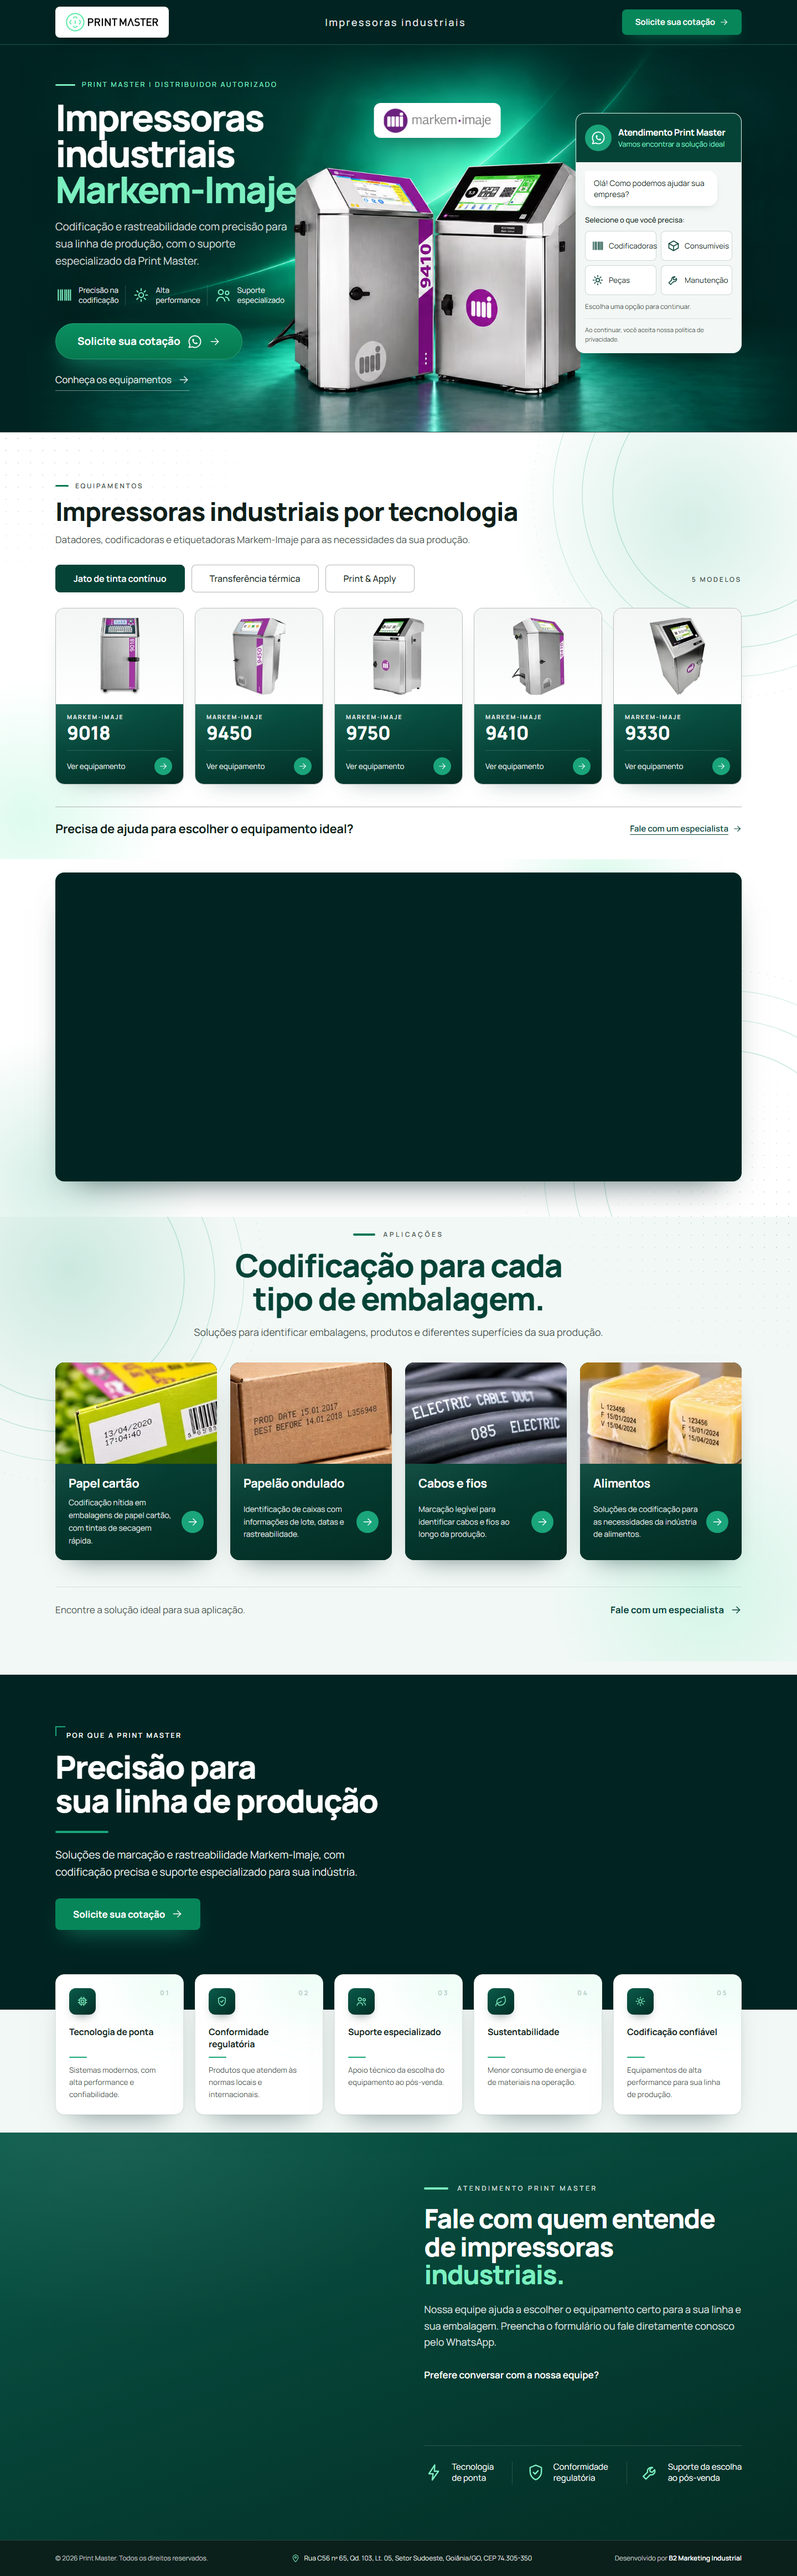
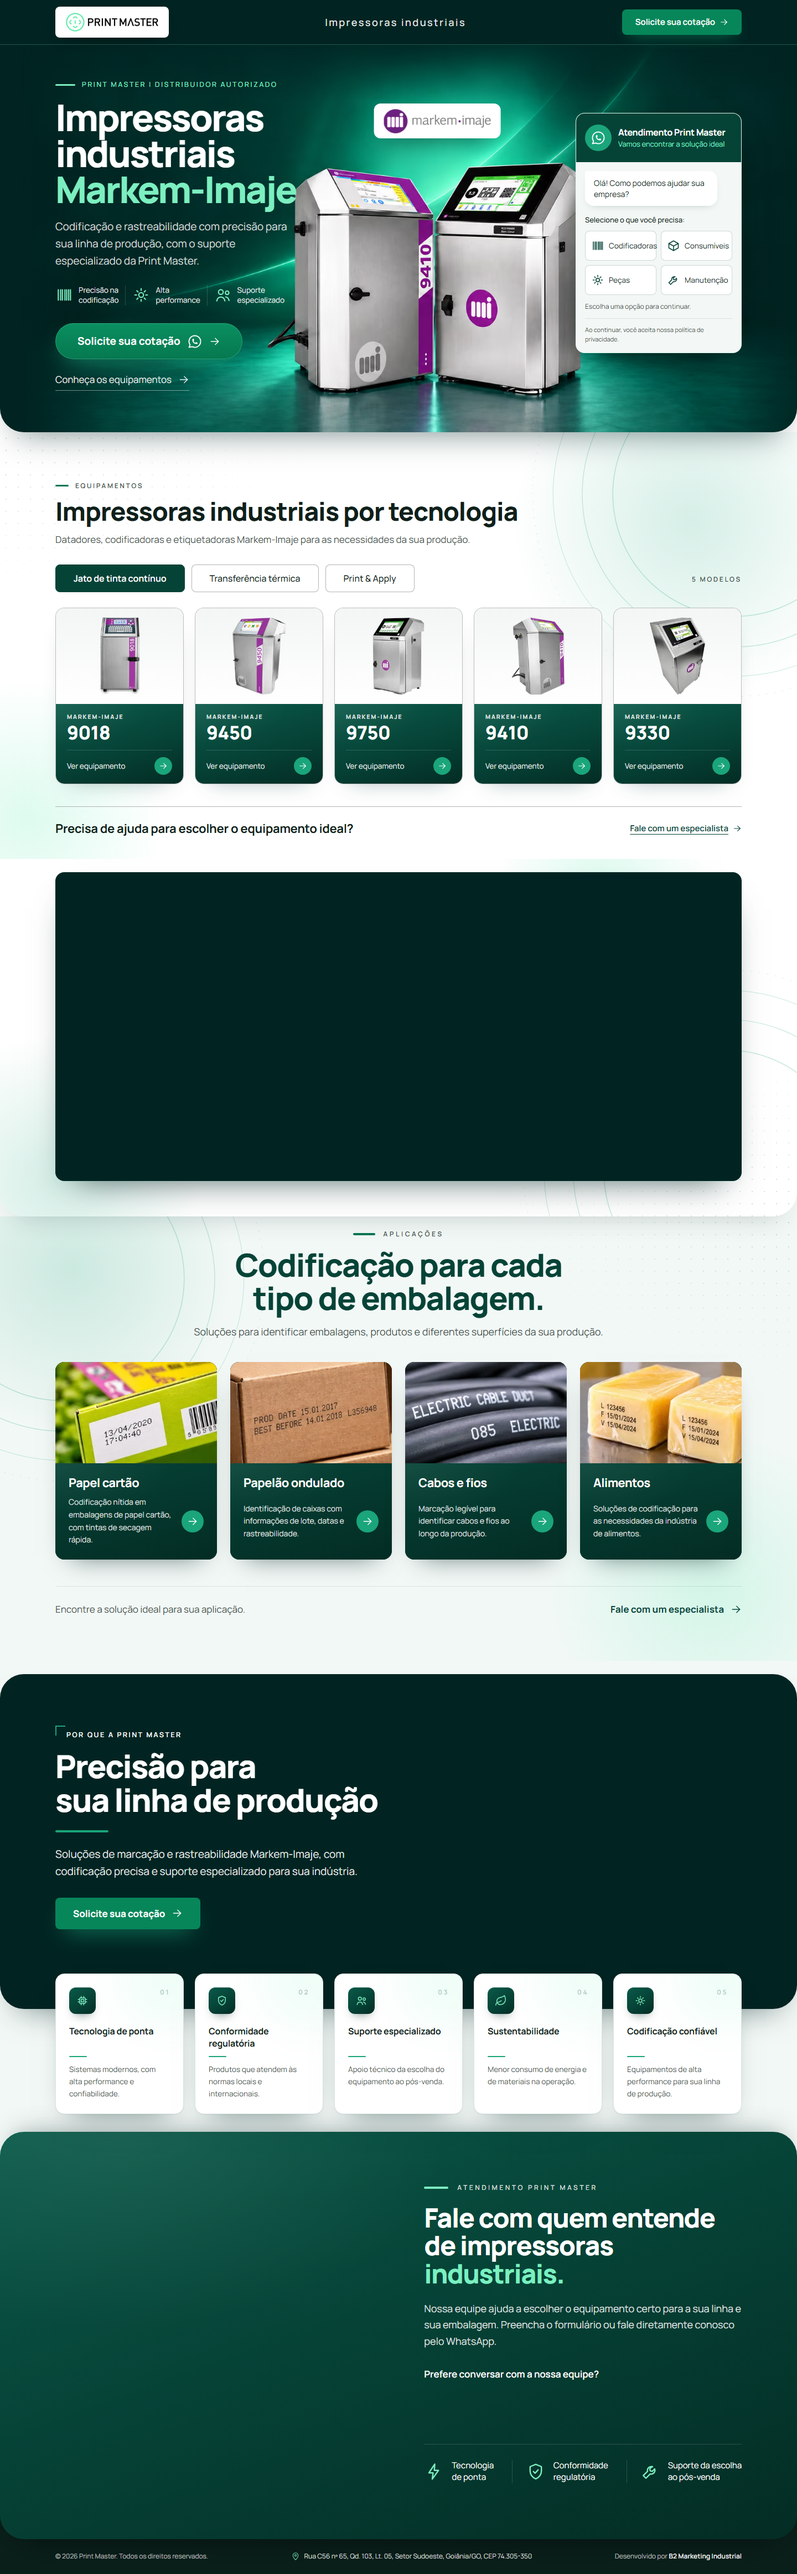
style: divisões arredondadas entre as seções
- hero, banner do "Como funciona", bloco escuro dos diferenciais e
  cotação terminam com cantos arredondados (24–44px) e sombra suave, no
  lugar da linha reta;
- a seção vizinha se estende por baixo dos cantos com borda transparente
  e margem negativa, sem mudar o espaçamento;
- linha inferior do hero removida.

diff --git a/src/styles/global.css b/src/styles/global.css
@@ -151,3 +151,59 @@
     display: none;
   }
 }
+
+/* ---------------------------------------------------------------------------
+   Divisões arredondadas entre seções — Print Master, pedido de 27/10/2026
+   (docs/BRIEFING.md). Onde o fundo muda, o bloco de cima termina com os cantos
+   arredondados e uma sombra suave sobre o de baixo, no lugar da linha reta.
+
+   Quando o fundo atrás dos cantos não é o da página, a seção vizinha se estende
+   por baixo com uma borda transparente do tamanho do raio (o fundo pinta por baixo
+   da borda) e uma margem negativa igual: o espaçamento visível não muda.
+   --------------------------------------------------------------------------- */
+:root {
+  --round: clamp(24px, 3vw, 44px);
+}
+
+/* Hero (verde) sobre os equipamentos (branco, o fundo da página). */
+[data-hero] {
+  z-index: 1;
+  border-radius: 0 0 var(--round) var(--round);
+  box-shadow: 0 30px 60px -30px rgb(1 36 34 / 0.55);
+}
+
+/* "Como funciona" (branco) sobre as aplicações (cinza). */
+#processo {
+  z-index: 1;
+  border-radius: 0 0 var(--round) var(--round);
+  box-shadow: 0 26px 50px -30px rgb(1 36 34 / 0.24);
+}
+
+#aplicacoes {
+  margin-top: calc(-1 * var(--round));
+  border-top: var(--round) solid transparent;
+}
+
+/* Bloco escuro de "Por que a Print Master": um cartão em largura total. */
+.why-hero {
+  border-radius: var(--round);
+  box-shadow: 0 30px 60px -34px rgb(1 36 34 / 0.6);
+}
+
+/* Cotação (verde) sobre o cinza dos diferenciais e sobre o rodapé. */
+#diferenciais {
+  margin-bottom: calc(-1 * var(--round));
+  border-bottom: var(--round) solid transparent;
+}
+
+#cotacao {
+  border-radius: var(--round);
+  box-shadow:
+    0 -24px 50px -30px rgb(1 36 34 / 0.45),
+    0 30px 60px -30px rgb(0 0 0 / 0.5);
+}
+
+body > footer {
+  margin-top: calc(-1 * var(--round));
+  border-top: var(--round) solid transparent;
+}

diff --git a/docs/BRIEFING.md b/docs/BRIEFING.md
@@ -135,6 +135,7 @@ Derivada em: 26/10/2026 · comando aplicado: `npm run compose -- vitrine process
 | `src/components/Footer.astro`                                                                                             | fundo #0b201b (mais escuro que o navy-premium), alfinete em menta e textos mais claros                                                                                                                                                                                                                                                                                                                                                                                 | mockup da cotação (27/10/2026); uma linha, três itens, como no padrão                                                                                                                                                                                                                                                                                                                                                                                                                                  |
 | `src/components/Section.astro`                                                                                            | os fundos claros (vitrine, processo, aplicações) ganham textura atrás do conteúdo: manchas de luz verde em degradê, anéis menta finos e malha de pontos que esmaece, com posições diferentes por seção                                                                                                                                                                                                                                                                 | pedido do usuário (27/10/2026): fundos muito vazios                                                                                                                                                                                                                                                                                                                                                                                                                                                    |
 | `src/components/sections/ProcessSteps.astro`, `src/data/sections/processo.ts`, `src/assets/processo/`, `lp.manifest.json` | o painel "Como funciona" (4 etapas) deu lugar ao banner enviado pelo usuário: imagem inteira no desktop, recorte do lado do texto no celular, banner inteiro clicável (`processo-cta`), H2 só para leitores de tela e `alt` com o texto da arte; contrato da seção sem etapas                                                                                                                                                                                          | pedido do usuário (27/10/2026); as etapas seguem na ficha. A arte tem um defeito no texto ("espec:ializado") a corrigir na origem                                                                                                                                                                                                                                                                                                                                                                      |
+| `src/styles/global.css`, `src/components/Hero.astro`                                                                      | divisões arredondadas entre seções (raio `--round`, 24–44px) com sombra suave: hero, "Como funciona" (banner), bloco escuro dos diferenciais e cotação; a vizinha se estende por baixo dos cantos com borda transparente e margem negativa, sem mudar o espaçamento; linha inferior do hero removida                                                                                                                                                                   | pedido do usuário (27/10/2026)                                                                                                                                                                                                                                                                                                                                                                                                                                                                         |
 | `scripts/check-lp.mjs`                                                                                                    | assinaturas A8 do Header e do Hero repinadas, com comentário datado                                                                                                                                                                                                                                                                                                                                                                                                    | o redesenho do mockup trocou as classes que o check conferia                                                                                                                                                                                                                                                                                                                                                                                                                                           |
 | `scripts/check-lp.mjs` (A8, cotação)                                                                                      | fundo e ritmo esperados da Cotação repinados para `quote-section` e `pt-16 pb-20`, com comentário datado                                                                                                                                                                                                                                                                                                                                                               | a Cotação passou a ser verde-escura no mockup de 27/10/2026                                                                                                                                                                                                                                                                                                                                                                                                                                            |
 | `src/components/sections/ProcessSteps.astro`, `WhyBrand.astro`                                                            | brilho do botão em `rgba(2,118,83,0.6)` no lugar do laranja fixo                                                                                                                                                                                                                                                                                                                                                                                                       | idem; **o `compose` sobrescreve estes dois** — reaplicar após recompor                                                                                                                                                                                                                                                                                                                                                                                                                                 |
